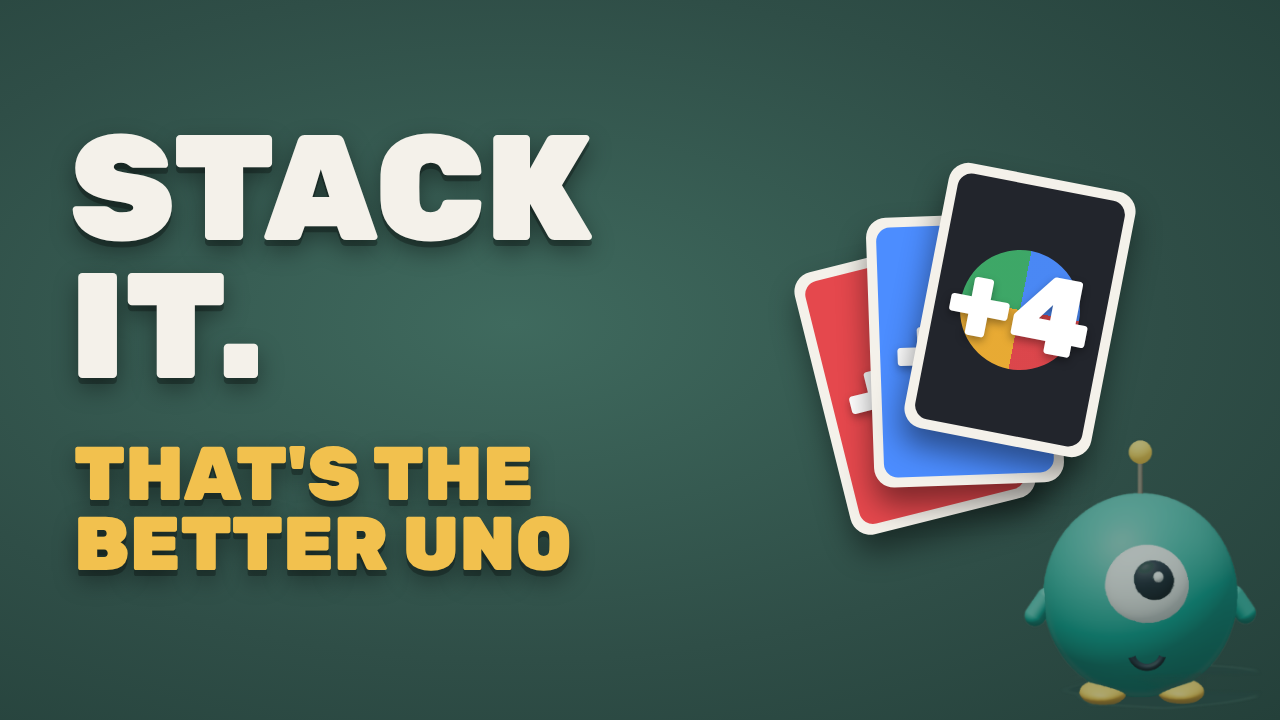
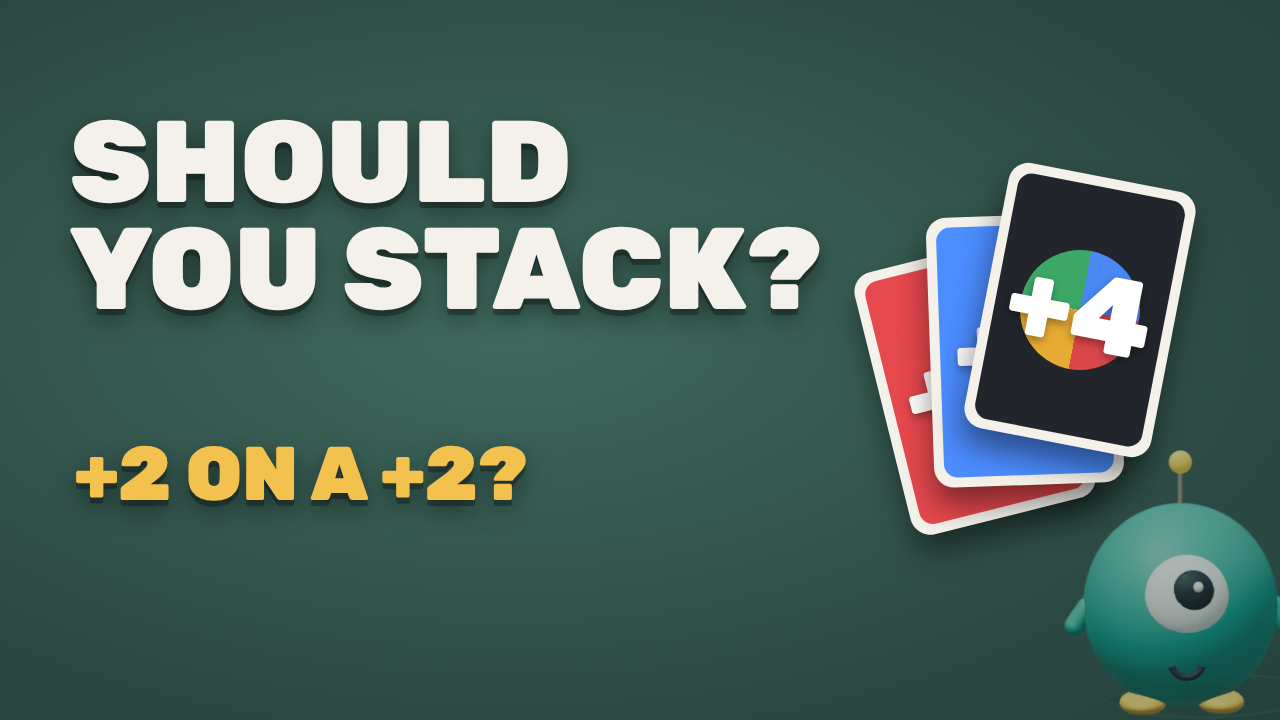
Uno thumb-A as a question (SHOULD YOU STACK?); LESSONS: thumbnails ask or tease, never state the answer
Claude-Session: https://claude.ai/code/session_019n1tKEcgmLawz5N7Go4deG

Changed region(s): [[0.0312, 0.1528, 1.0, 1.0], [0.0625, 0.6111, 0.4688, 0.825]]

diff --git a/docs/LESSONS.md b/docs/LESSONS.md
@@ -215,6 +215,8 @@ structurally prevented and every render is checked:
 - **Titles never use the copycat template** ("Tested on N games", "I simulated N games", a big number first):
   ~40 copycat channels use it (median 58 views). Lead with one specific claim or question; numbers stay inside
   the video. Same for Short titles, hooks, description first lines and thumbnails (no small % next to a big %).
+- **Thumbnails ask or tease; they never state the video's answer** ("STACK IT. That's the better Uno" gave away the
+  reveal; "SHOULD YOU STACK?" keeps it). The default thumbnail is the strongest question (Uno: LUCK OR SKILL? meter).
 - **Never link the code** (repo, simulator) in descriptions, end cards or comments. The creator's call.
 - **Length: at least 8:00** (mid-roll ads), with margin (aim ~8:20). If short, add real content from unused
   data or a fuller game primer (rules from the official sheet), never filler. Order: what the game is ->
